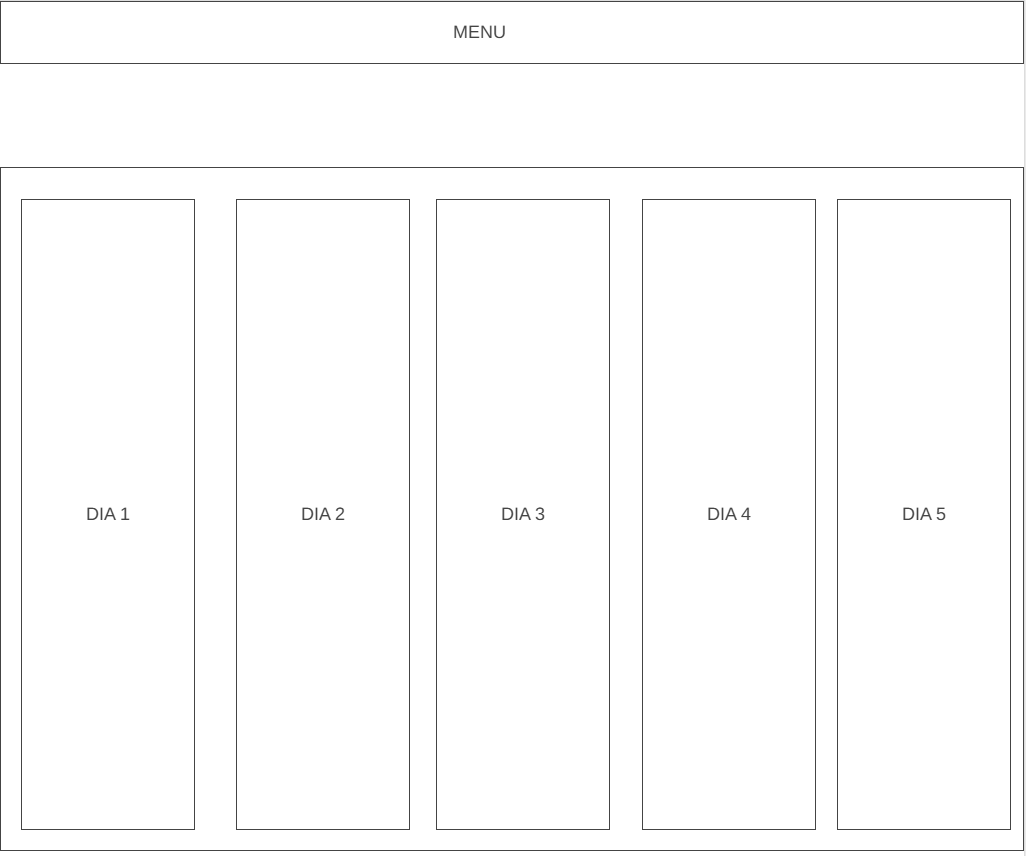
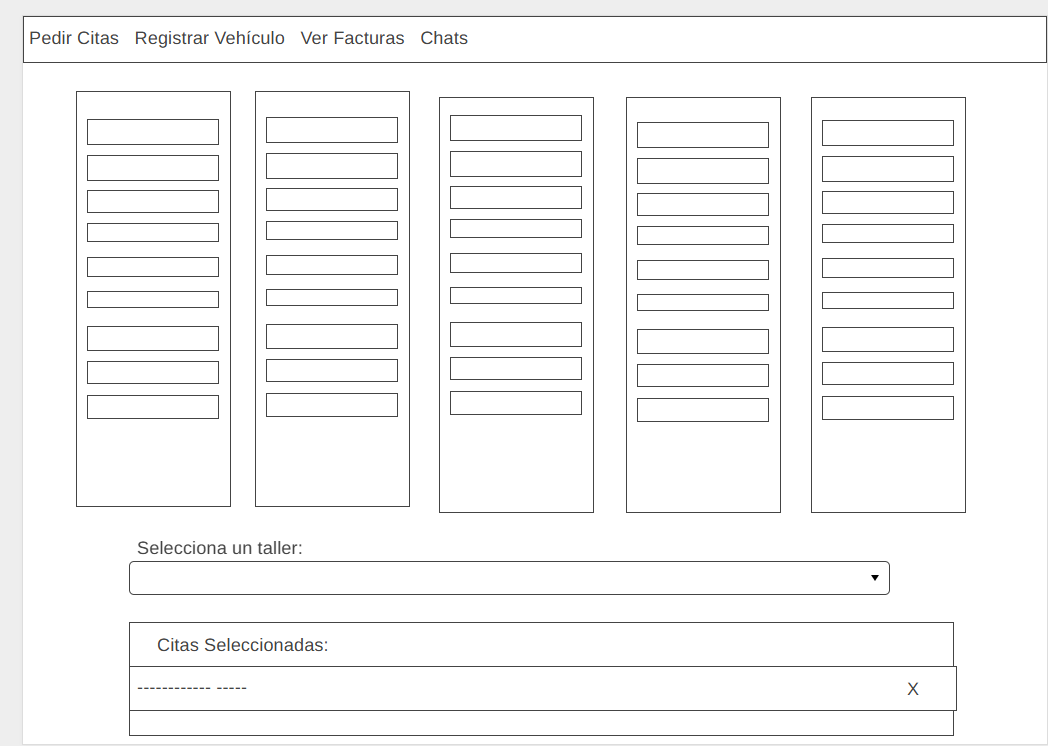
se configuran correctas los cors, para el desarrollo, se hace que se pueda dar de alta correctamente un taller nuevo y se hace el wireframe de pedir las citas

diff --git a/AUTOCAREHUB/src/app/components/workshops-management/workshops-management.component.html b/AUTOCAREHUB/src/app/components/workshops-management/workshops-management.component.html
@@ -14,7 +14,11 @@
     <h3>Crear Nuevo Taller</h3>
     <div class="form-group">
       <label>Nombre</label>
-      <input type="text" class="form-control" [(ngModel)]="newWorkshop.Name" />
+      <input
+        type="text"
+        class="form-control"
+        [(ngModel)]="newWorkshop.workshopName"
+      />
     </div>
 
     <div class="form-group">
@@ -22,13 +26,13 @@
       <input
         type="text"
         class="form-control"
-        [(ngModel)]="newWorkshop.Address"
+        [(ngModel)]="newWorkshop.address"
       />
     </div>
 
     <div class="form-group">
       <label>Teléfono</label>
-      <input type="tel" class="form-control" [(ngModel)]="newWorkshop.Phone" />
+      <input type="tel" class="form-control" [(ngModel)]="newWorkshop.phone" />
     </div>
 
     <div class="form-group">
@@ -36,7 +40,7 @@
       <input
         type="email"
         class="form-control"
-        [(ngModel)]="newWorkshop.Email"
+        [(ngModel)]="newWorkshop.email"
       />
     </div>
 
@@ -45,7 +49,7 @@
       <input
         type="text"
         class="form-control"
-        [(ngModel)]="newWorkshop.FullName"
+        [(ngModel)]="newWorkshop.fullName"
       />
     </div>
 
@@ -53,8 +57,17 @@
       <label>Descripción</label>
       <textarea
         class="form-control"
-        [(ngModel)]="newWorkshop.Description"
+        [(ngModel)]="newWorkshop.description"
       ></textarea>
+    </div>
+
+    <div class="form-group">
+      <label>Contraseña</label>
+      <input
+        type="password"
+        class="form-control"
+        [(ngModel)]="newWorkshop.password"
+      />
     </div>
 
     <button class="btn btn-primary" (click)="createWorkshop()">

diff --git a/AUTOCAREHUB/src/app/components/workshops-management/workshops-management.component.ts b/AUTOCAREHUB/src/app/components/workshops-management/workshops-management.component.ts
@@ -12,13 +12,14 @@ import { DataAccessService, Workshop } from '../../services/dataAccess.service';
 })
 export class WorkshopsManagementComponent implements OnInit {
   workshops: Workshop[] = [];
-  newWorkshop: Workshop = {
-    Name: '',
-    Address: '',
-    Phone: '',
-    Email: '',
-    FullName: '',
-    Description: '',
+  newWorkshop: any = {
+    workshopName: '',
+    address: '',
+    phone: '',
+    email: '',
+    fullName: '',
+    description: '',
+    password: '',
   };
   errorMessage: string = '';
   successMessage: string = '';
@@ -47,10 +48,12 @@ export class WorkshopsManagementComponent implements OnInit {
 
   createWorkshop(): void {
     if (
-      !this.newWorkshop.Name ||
-      !this.newWorkshop.Address ||
-      !this.newWorkshop.Phone ||
-      !this.newWorkshop.Email
+      !this.newWorkshop.workshopName ||
+      !this.newWorkshop.address ||
+      !this.newWorkshop.phone ||
+      !this.newWorkshop.email ||
+      !this.newWorkshop.fullName ||
+      !this.newWorkshop.password
     ) {
       this.errorMessage = 'Por favor, completa todos los campos requeridos';
       return;
@@ -74,12 +77,13 @@ export class WorkshopsManagementComponent implements OnInit {
 
   private resetForm(): void {
     this.newWorkshop = {
-      Name: '',
-      Address: '',
-      Phone: '',
-      Email: '',
-      FullName: '',
-      Description: '',
+      workshopName: '',
+      address: '',
+      phone: '',
+      email: '',
+      fullName: '',
+      description: '',
+      password: '',
     };
   }
 }

diff --git a/PHP/controllers/WorkshopController.php b/PHP/controllers/WorkshopController.php
@@ -41,8 +41,9 @@ class WorkshopController {
             $userId = $this->conn->insert_id;
 
             // Crear el registro del taller
+            $description = isset($data['description']) ? $data['description'] : '';
             $stmt = $this->conn->prepare("INSERT INTO Workshops (UserID, Name, Address, Phone, Description) VALUES (?, ?, ?, ?, ?)");
-            $stmt->bind_param("issss", $userId, $data['workshopName'], $data['address'], $data['phone'], $data['description'] ?? '');
+            $stmt->bind_param("issss", $userId, $data['workshopName'], $data['address'], $data['phone'], $description);
             
             if (!$stmt->execute()) {
                 // Rollback - eliminar usuario creado si falla la creación del taller

diff --git a/PHP/config/cors.php b/PHP/config/cors.php
@@ -1,6 +1,6 @@
 <?php
 function configureCors() {
-    header("Access-Control-Allow-Origin: *");
+    header("Access-Control-Allow-Origin: http://localhost:4200");
     header("Access-Control-Allow-Credentials: true");
     header("Access-Control-Allow-Methods: GET, POST, PUT, OPTIONS");
     header("Access-Control-Allow-Headers: Content-Type, Authorization, X-Requested-With, content-type");
